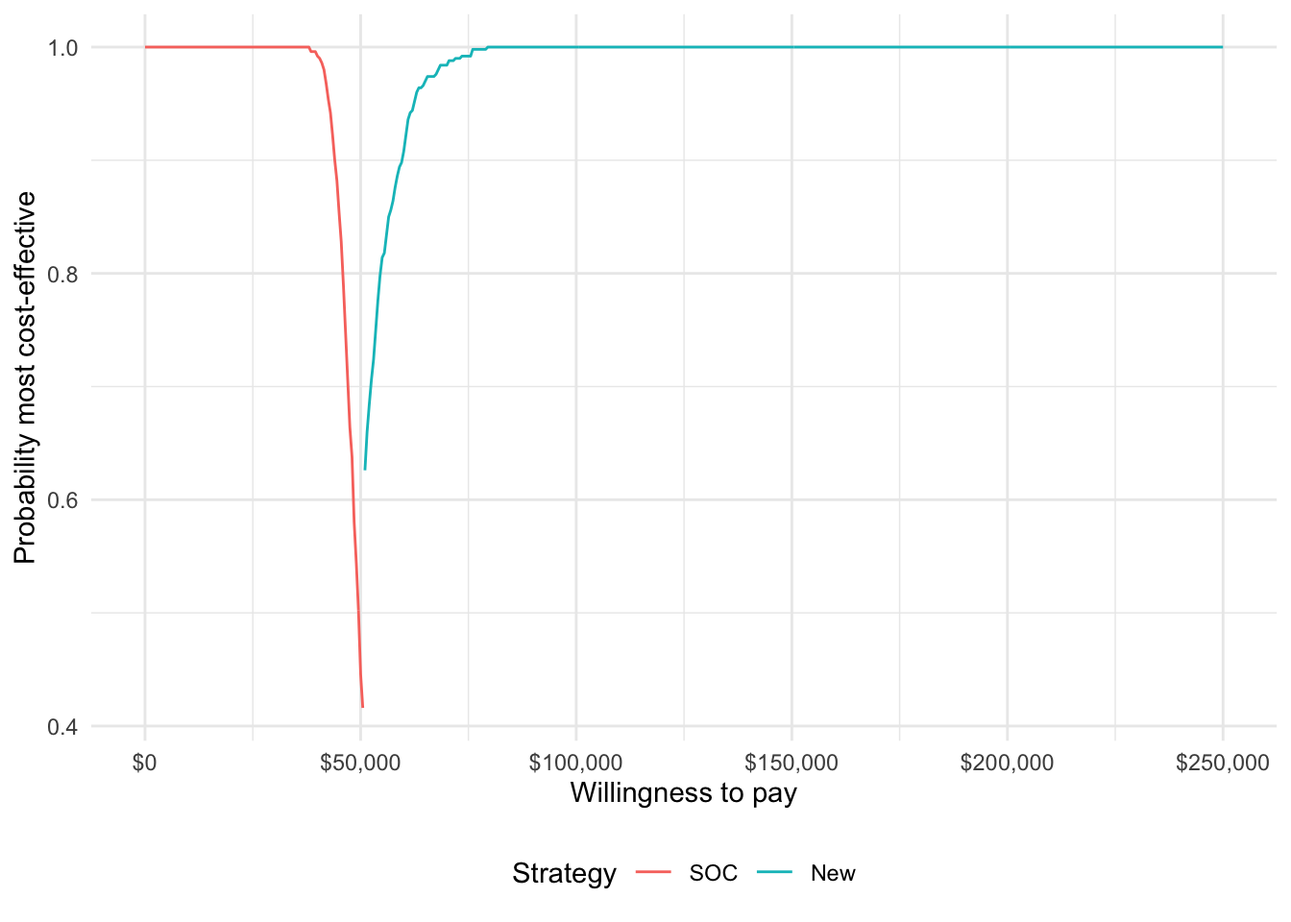
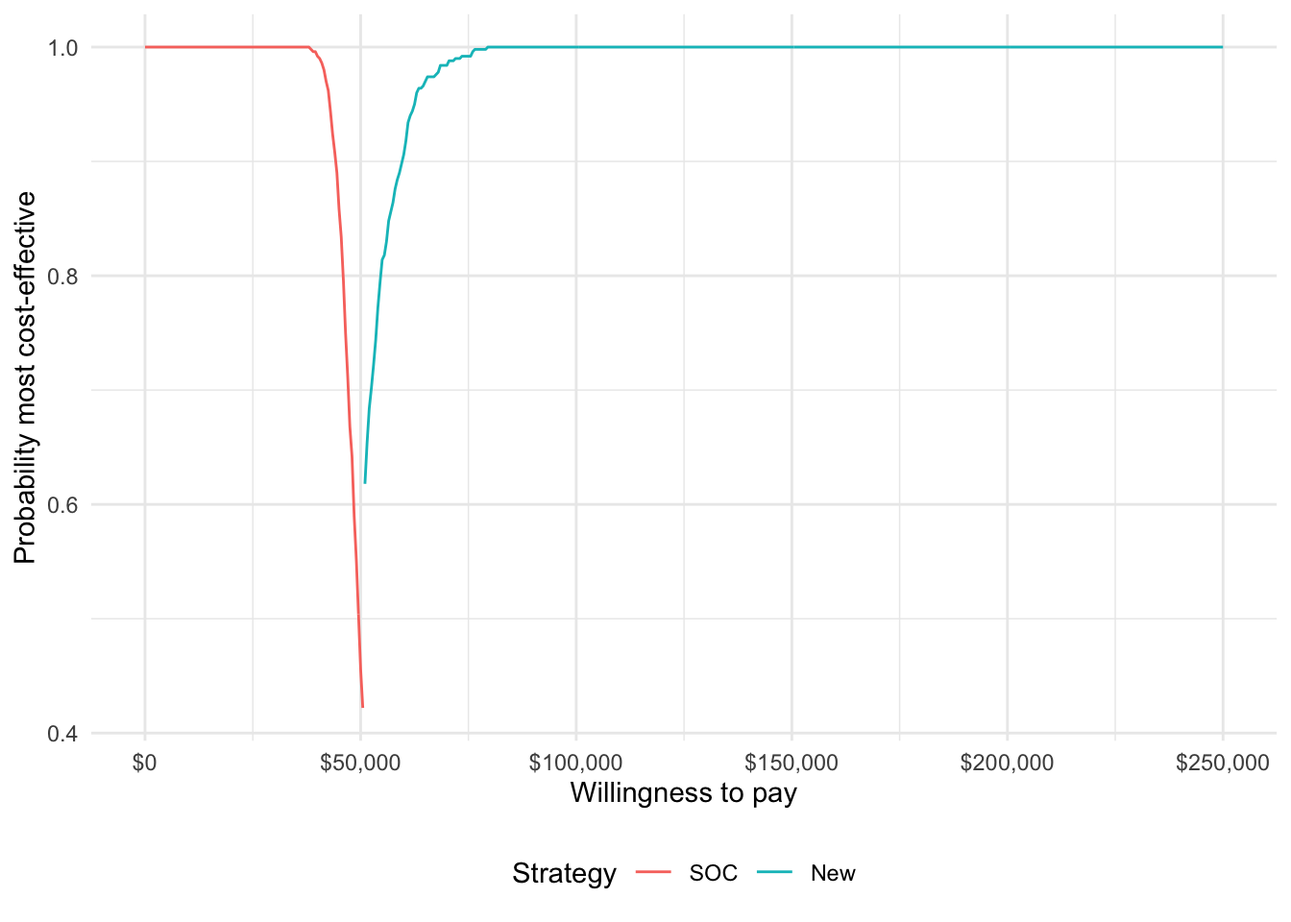
Replace icea() and icea_pw() with cea() and cea_pw() given that icea() and icea_pw() are now deprecated in the development version of hesim

diff --git a/docs/articles/06-cea.html b/docs/articles/06-cea.html
@@ -91,7 +91,7 @@
     <div class="page-header toc-ignore">
       <h1 data-toc-skip>Cost-effectiveness Analysis</h1>
             
-            <h4 class="date">2020-09-13</h4>
+            <h4 class="date">2020-09-19</h4>
       
       <small class="dont-index">Source: <a href="https://github.com/hesim-dev/ispor-short-course/blob/master/vignettes/06-cea.Rmd"><code>vignettes/06-cea.Rmd</code></a></small>
       <div class="hidden name"><code>06-cea.Rmd</code></div>
@@ -104,7 +104,7 @@
 <h1 class="hasAnchor">
 <a href="#overview" class="anchor"></a><span class="header-section-number">1</span> Overview</h1>
 <p>The prior tutorials have focused on constructing economic models to simulate disease progression, costs, and quality-adjusted life-years (QALYs). While incremental cost-effectiveness ratios (ICERs) have been computed and probabilistic sensitivity analysis (PSA) has been employed, we have not yet formalized cost-effectiveness analysis (CEA) or represented decision uncertainty.</p>
-<p>In this analysis we will perform a CEA given the output of model from the <a href="04-mstate.html">“Semi-Markov Multi-state Model”</a> tutorial. We will use the CEA functions from <code>hesim</code> to summarize decision uncertainty and <code>ggplot2</code> for visualization. The CEA will be peformed for a single target population, but you can review the <code>hesim</code> tutorial on <a href="https://hesim-dev.github.io/hesim/articles/icea.html">individualized CEA</a> and the references therein for an example of CEA in the context of multiple subgroups.</p>
+<p>In this analysis we will perform a CEA given the output of model from the <a href="04-mstate.html">“Semi-Markov Multi-state Model”</a> tutorial. We will use the CEA functions from <code>hesim</code> to summarize decision uncertainty and <code>ggplot2</code> for visualization. The CEA will be peformed for a single target population, but you can review the <code>hesim</code> tutorial on <a href="https://hesim-dev.github.io/hesim/articles/cea.html">CEA</a> and the references therein for an example of CEA in the context of multiple subgroups.</p>
 <div class="sourceCode" id="cb1"><html><body><pre class="r"><span class="fu"><a href="https://rdrr.io/r/base/library.html">library</a></span>(<span class="st">"hesim"</span>)
 <span class="fu"><a href="https://rdrr.io/r/base/library.html">library</a></span>(<span class="st">"ggplot2"</span>)
 <span class="fu"><a href="https://ggplot2.tidyverse.org/reference/theme_get.html">theme_set</a></span>(<span class="fu"><a href="https://ggplot2.tidyverse.org/reference/ggtheme.html">theme_minimal</a></span>()) <span class="co"># Set ggplot2 theme</span></pre></body></html></div>
@@ -145,23 +145,23 @@ c_{j} &amp;= [c_{j}^1, c_{j}^2, \dots, c_{j}^m].
 <div id="application" class="section level1">
 <h1 class="hasAnchor">
 <a href="#application" class="anchor"></a><span class="header-section-number">3</span> Application</h1>
-<p>CEA can be performed using the <code><a href="https://rdrr.io/pkg/hesim/man/icea.html">hesim::icea()</a></code> and <code><a href="https://rdrr.io/pkg/hesim/man/icea.html">hesim::icea_pw()</a></code> functions. <code><a href="https://rdrr.io/pkg/hesim/man/icea.html">icea()</a></code> summarizes results by taking into account each treatment strategy in the analysis, while <code>icea_pw</code> summarizes “pairwise” results in which each treatment is compared to a comparator.</p>
+<p>CEA can be performed using the <code><a href="https://rdrr.io/pkg/hesim/man/cea.html">hesim::cea()</a></code> and <code><a href="https://rdrr.io/pkg/hesim/man/cea.html">hesim::cea_pw()</a></code> functions. <code><a href="https://rdrr.io/pkg/hesim/man/cea.html">cea()</a></code> summarizes results by taking into account each treatment strategy in the analysis, while <code>cea_pw</code> summarizes “pairwise” results in which each treatment is compared to a comparator.</p>
 <p>We will use these functions to analyze the distribution of costs and QALYs produced from the simulation of the semi-Markov CTSTM (a <code><a href="https://rdrr.io/pkg/hesim/man/ce.html">hesim::ce</a></code> object).</p>
 <div class="sourceCode" id="cb2"><html><body><pre class="r"><span class="no">ce_sim</span> <span class="kw">&lt;-</span> <span class="fu"><a href="https://rdrr.io/r/base/readRDS.html">readRDS</a></span>(<span class="st">"ce_sim.rds"</span>) <span class="co"># Load cost-effectiveness object</span>
 <span class="fu"><a href="https://rdrr.io/r/utils/head.html">head</a></span>(<span class="no">ce_sim</span>)</pre></body></html></div>
 <pre><code>## $costs
 ##       category   dr sample strategy_id     costs grp_id
 ##    1:     Drug 0.03      1           1  23678.74      1
-##    2:     Drug 0.03      1           2 188210.29      1
+##    2:     Drug 0.03      1           2 188502.54      1
 ##    3:     Drug 0.03      2           1  23224.71      1
-##    4:     Drug 0.03      2           2 184594.47      1
+##    4:     Drug 0.03      2           2 184885.23      1
 ##    5:     Drug 0.03      3           1  23011.36      1
 ##   ---                                                  
-## 2996:    total 0.03    498           2 249897.28      1
+## 2996:    total 0.03    498           2 250188.10      1
 ## 2997:    total 0.03    499           1  63343.39      1
-## 2998:    total 0.03    499           2 238964.38      1
+## 2998:    total 0.03    499           2 239276.32      1
 ## 2999:    total 0.03    500           1  50651.70      1
-## 3000:    total 0.03    500           2 233472.15      1
+## 3000:    total 0.03    500           2 233785.48      1
 ## 
 ## $qalys
 ##         dr sample strategy_id     qalys grp_id
@@ -177,26 +177,26 @@ c_{j} &amp;= [c_{j}^1, c_{j}^2, \dots, c_{j}^m].
 ## 1999: 0.03    500           1  8.063408      1
 ## 2000: 0.03    500           2 12.152292      1</code></pre>
 <div class="sourceCode" id="cb4"><html><body><pre class="r"><span class="no">wtp</span> <span class="kw">&lt;-</span> <span class="fu"><a href="https://rdrr.io/r/base/seq.html">seq</a></span>(<span class="fl">0</span>, <span class="fl">250000</span>, <span class="fl">500</span>) <span class="co"># Willingness to pay per QALY</span>
-<span class="no">icea_pw_out</span> <span class="kw">&lt;-</span> <span class="fu"><a href="https://rdrr.io/pkg/hesim/man/icea.html">icea_pw</a></span>(<span class="no">ce_sim</span>, <span class="kw">comparator</span> <span class="kw">=</span> <span class="fl">1</span>, <span class="co"># Comparator is SOC (ID = 1)</span>
-                       <span class="kw">dr_qalys</span> <span class="kw">=</span> <span class="fl">0.03</span>, <span class="kw">dr_costs</span> <span class="kw">=</span> <span class="fl">0.03</span>,
-                       <span class="no">wtp</span>)
-<span class="no">icea_out</span> <span class="kw">&lt;-</span> <span class="fu"><a href="https://rdrr.io/pkg/hesim/man/icea.html">icea</a></span>(<span class="no">ce_sim</span>,
-                 <span class="kw">dr_qalys</span> <span class="kw">=</span> <span class="fl">0.03</span>, <span class="kw">dr_costs</span> <span class="kw">=</span> <span class="fl">0.03</span>,
-                 <span class="kw">k</span> <span class="kw">=</span> <span class="no">wtp</span>)</pre></body></html></div>
+<span class="no">cea_pw_out</span> <span class="kw">&lt;-</span> <span class="fu"><a href="https://rdrr.io/pkg/hesim/man/cea.html">cea_pw</a></span>(<span class="no">ce_sim</span>, <span class="kw">comparator</span> <span class="kw">=</span> <span class="fl">1</span>, <span class="co"># Comparator is SOC (ID = 1)</span>
+                     <span class="kw">dr_qalys</span> <span class="kw">=</span> <span class="fl">0.03</span>, <span class="kw">dr_costs</span> <span class="kw">=</span> <span class="fl">0.03</span>,
+                     <span class="no">wtp</span>)
+<span class="no">cea_out</span> <span class="kw">&lt;-</span> <span class="fu"><a href="https://rdrr.io/pkg/hesim/man/cea.html">cea</a></span>(<span class="no">ce_sim</span>,
+               <span class="kw">dr_qalys</span> <span class="kw">=</span> <span class="fl">0.03</span>, <span class="kw">dr_costs</span> <span class="kw">=</span> <span class="fl">0.03</span>,
+               <span class="kw">k</span> <span class="kw">=</span> <span class="no">wtp</span>)</pre></body></html></div>
 <p>Each function returns a number of outputs for summarizing a PSA.</p>
 <div id="cost-effectiveness-plane" class="section level2">
 <h2 class="hasAnchor">
 <a href="#cost-effectiveness-plane" class="anchor"></a><span class="header-section-number">3.1</span> Cost-effectiveness plane</h2>
 <p>The cost-effectiveness plane plots the incremental effectiveness of a treatment strategy (relative to a comparator) against the incremental cost of the treatment strategy. The plot is useful because it demonstrates both the uncertainty and the magnitude of the estimates. Each point on the plot is from a particular random draw from the PSA.</p>
-<p>Data for plotting a cost-effectiveness plane comes from the <code>delta</code> output generated from the <code>icea_pw</code> function, which, for each sampled parameter set and treatment strategy, estimates differences in costs and QALYs relative to the comparator.</p>
-<div class="sourceCode" id="cb5"><html><body><pre class="r"><span class="fu"><a href="https://rdrr.io/r/utils/head.html">head</a></span>(<span class="no">icea_pw_out</span>$<span class="no">delta</span>)</pre></body></html></div>
+<p>Data for plotting a cost-effectiveness plane comes from the <code>delta</code> output generated from the <code>cea_pw</code> function, which, for each sampled parameter set and treatment strategy, estimates differences in costs and QALYs relative to the comparator.</p>
+<div class="sourceCode" id="cb5"><html><body><pre class="r"><span class="fu"><a href="https://rdrr.io/r/utils/head.html">head</a></span>(<span class="no">cea_pw_out</span>$<span class="no">delta</span>)</pre></body></html></div>
 <pre><code>##    sample strategy_id grp_id       ie       ic
-## 1:      1           2      1 3.900703 173459.8
-## 2:      2           2      1 3.700907 279860.3
-## 3:      3           2      1 4.140923 207452.3
-## 4:      4           2      1 3.765042 202056.4
-## 5:      5           2      1 4.003303 187869.4
-## 6:      6           2      1 3.247835 164619.4</code></pre>
+## 1:      1           2      1 3.900703 173752.1
+## 2:      2           2      1 3.700907 280151.1
+## 3:      3           2      1 4.140923 207748.0
+## 4:      4           2      1 3.765042 202362.6
+## 5:      5           2      1 4.003303 188159.4
+## 6:      6           2      1 3.247835 164909.4</code></pre>
 <p>To make nicer plots, we can write a simple helper function to (i) create labels for the treatment strategies and (ii) format dollar values (which you might also use the <code>scales</code> package for).</p>
 <div class="sourceCode" id="cb7"><html><body><pre class="r"><span class="no">strategy_factor</span> <span class="kw">&lt;-</span> <span class="kw">function</span> (<span class="no">x</span>) {
   <span class="fu"><a href="https://rdrr.io/r/base/factor.html">factor</a></span>(<span class="no">x</span>, <span class="kw">levels</span> <span class="kw">=</span> <span class="fl">1</span>:<span class="fl">2</span>, <span class="kw">labels</span> <span class="kw">=</span> <span class="fu"><a href="https://rdrr.io/r/base/c.html">c</a></span>(<span class="st">"SOC"</span>, <span class="st">"New"</span>))
@@ -206,9 +206,9 @@ c_{j} &amp;= [c_{j}^1, c_{j}^2, \dots, c_{j}^m].
   <span class="fu"><a href="https://rdrr.io/r/base/paste.html">paste0</a></span>(<span class="st">"$"</span>, <span class="fu"><a href="https://rdrr.io/r/base/formatc.html">formatC</a></span>(<span class="no">x</span>, <span class="kw">format</span> <span class="kw">=</span> <span class="st">"d"</span>, <span class="kw">big.mark</span> <span class="kw">=</span> <span class="st">","</span>))
 }</pre></body></html></div>
 <p>The dotted line in the plot is the WTP line, with slope equal to the desire value of <span class="math inline">\(k\)</span> (in this case $50,000). For a chosen <span class="math inline">\(k\)</span>, points below the line are cost-effective while those above it are not.</p>
-<div class="sourceCode" id="cb8"><html><body><pre class="r"><span class="no">ylim</span> <span class="kw">&lt;-</span> <span class="fu"><a href="https://rdrr.io/r/base/Extremes.html">max</a></span>(<span class="no">icea_pw_out</span>$<span class="no">delta</span>[, <span class="no">ic</span>]) * <span class="fl">1.1</span>
-<span class="no">xlim</span> <span class="kw">&lt;-</span> <span class="fu"><a href="https://rdrr.io/r/base/Round.html">ceiling</a></span>(<span class="fu"><a href="https://rdrr.io/r/base/Extremes.html">max</a></span>(<span class="no">icea_pw_out</span>$<span class="no">delta</span>[, <span class="no">ie</span>]) * <span class="fl">1.1</span>)
-<span class="fu"><a href="https://ggplot2.tidyverse.org/reference/ggplot.html">ggplot</a></span>(<span class="no">icea_pw_out</span>$<span class="no">delta</span>,
+<div class="sourceCode" id="cb8"><html><body><pre class="r"><span class="no">ylim</span> <span class="kw">&lt;-</span> <span class="fu"><a href="https://rdrr.io/r/base/Extremes.html">max</a></span>(<span class="no">cea_pw_out</span>$<span class="no">delta</span>[, <span class="no">ic</span>]) * <span class="fl">1.1</span>
+<span class="no">xlim</span> <span class="kw">&lt;-</span> <span class="fu"><a href="https://rdrr.io/r/base/Round.html">ceiling</a></span>(<span class="fu"><a href="https://rdrr.io/r/base/Extremes.html">max</a></span>(<span class="no">cea_pw_out</span>$<span class="no">delta</span>[, <span class="no">ie</span>]) * <span class="fl">1.1</span>)
+<span class="fu"><a href="https://ggplot2.tidyverse.org/reference/ggplot.html">ggplot</a></span>(<span class="no">cea_pw_out</span>$<span class="no">delta</span>,
        <span class="fu"><a href="https://ggplot2.tidyverse.org/reference/aes.html">aes</a></span>(<span class="kw">x</span> <span class="kw">=</span> <span class="no">ie</span>, <span class="kw">y</span> <span class="kw">=</span> <span class="no">ic</span>, <span class="kw">col</span> <span class="kw">=</span> <span class="fu">strategy_factor</span>(<span class="no">strategy_id</span>))) +
   <span class="fu"><a href="https://ggplot2.tidyverse.org/reference/geom_jitter.html">geom_jitter</a></span>(<span class="kw">size</span> <span class="kw">=</span> <span class="fl">.5</span>)  +
   <span class="fu"><a href="https://ggplot2.tidyverse.org/reference/labs.html">xlab</a></span>(<span class="st">"Incremental QALYs"</span>) +
@@ -230,7 +230,7 @@ c_{j} &amp;= [c_{j}^1, c_{j}^2, \dots, c_{j}^m].
 <h3 class="hasAnchor">
 <a href="#simultanous-comparison" class="anchor"></a><span class="header-section-number">3.2.1</span> Simultanous comparison</h3>
 <p>A useful summary measure for quantifying uncertainty is the probability that each treatment strategy is the most cost effective, which is estimated from simulation output as the proportion of simulation draws that each strategy has the highest NMB.</p>
-<div class="sourceCode" id="cb9"><html><body><pre class="r"><span class="fu"><a href="https://ggplot2.tidyverse.org/reference/ggplot.html">ggplot</a></span>(<span class="no">icea_out</span>$<span class="no">mce</span>,
+<div class="sourceCode" id="cb9"><html><body><pre class="r"><span class="fu"><a href="https://ggplot2.tidyverse.org/reference/ggplot.html">ggplot</a></span>(<span class="no">cea_out</span>$<span class="no">mce</span>,
        <span class="fu"><a href="https://ggplot2.tidyverse.org/reference/aes.html">aes</a></span>(<span class="kw">x</span> <span class="kw">=</span> <span class="no">k</span>, <span class="kw">y</span> <span class="kw">=</span> <span class="no">prob</span>, <span class="kw">col</span> <span class="kw">=</span> <span class="fu">strategy_factor</span>(<span class="no">strategy_id</span>))) +
   <span class="fu"><a href="https://ggplot2.tidyverse.org/reference/geom_path.html">geom_line</a></span>() +
   <span class="fu"><a href="https://ggplot2.tidyverse.org/reference/labs.html">xlab</a></span>(<span class="st">"Willingness to pay"</span>) +
@@ -246,7 +246,7 @@ c_{j} &amp;= [c_{j}^1, c_{j}^2, \dots, c_{j}^m].
 <h3 class="hasAnchor">
 <a href="#pairwise-comparison" class="anchor"></a><span class="header-section-number">3.2.2</span> Pairwise comparison</h3>
 <p>The difference between this plot and the one above is that it compares each strategy to a single comparator rather than considering all strategies simultaneously. Since there are only two treatment strategies the distinction is not meaningful, but it can be important when there are 3 or more treatment strategies.</p>
-<div class="sourceCode" id="cb10"><html><body><pre class="r"><span class="fu"><a href="https://ggplot2.tidyverse.org/reference/ggplot.html">ggplot</a></span>(<span class="no">icea_pw_out</span>$<span class="no">ceac</span>,
+<div class="sourceCode" id="cb10"><html><body><pre class="r"><span class="fu"><a href="https://ggplot2.tidyverse.org/reference/ggplot.html">ggplot</a></span>(<span class="no">cea_pw_out</span>$<span class="no">ceac</span>,
        <span class="fu"><a href="https://ggplot2.tidyverse.org/reference/aes.html">aes</a></span>(<span class="kw">x</span> <span class="kw">=</span> <span class="no">k</span>, <span class="kw">y</span> <span class="kw">=</span> <span class="no">prob</span>, <span class="kw">col</span> <span class="kw">=</span> <span class="fu">strategy_factor</span>(<span class="no">strategy_id</span>))) +
   <span class="fu"><a href="https://ggplot2.tidyverse.org/reference/geom_path.html">geom_line</a></span>()  +
   <span class="fu"><a href="https://ggplot2.tidyverse.org/reference/labs.html">xlab</a></span>(<span class="st">"Willingness to pay"</span>) +
@@ -263,7 +263,7 @@ c_{j} &amp;= [c_{j}^1, c_{j}^2, \dots, c_{j}^m].
 <a href="#cost-effectiveness-acceptability-frontier-ceaf" class="anchor"></a><span class="header-section-number">3.3</span> Cost-effectiveness acceptability frontier (CEAF)</h2>
 <p>One drawback of the CEAC is that the probability of being cost-effective cannot be used to determine the optimal treatment option. Instead, if a decision-makers objective is to maximize health gain, then decisions should be based on the expected NMB. The cost-effectiveness acceptability frontier (CEAF), which plots the probability that the optimal treatment strategy (i.e., the strategy with the highest expected NMB) is cost-effective, is appropriate in this context.</p>
 <p>A CEAF curve can be easily created by using the <code>best</code> column to subset to the treatment strategy with the highest expected NMB for each WTP value.</p>
-<div class="sourceCode" id="cb11"><html><body><pre class="r"><span class="fu"><a href="https://ggplot2.tidyverse.org/reference/ggplot.html">ggplot</a></span>(<span class="no">icea_out</span>$<span class="no">mce</span>[<span class="no">best</span> <span class="kw">==</span> <span class="fl">1</span>],
+<div class="sourceCode" id="cb11"><html><body><pre class="r"><span class="fu"><a href="https://ggplot2.tidyverse.org/reference/ggplot.html">ggplot</a></span>(<span class="no">cea_out</span>$<span class="no">mce</span>[<span class="no">best</span> <span class="kw">==</span> <span class="fl">1</span>],
        <span class="fu"><a href="https://ggplot2.tidyverse.org/reference/aes.html">aes</a></span>(<span class="kw">x</span> <span class="kw">=</span> <span class="no">k</span>, <span class="kw">y</span> <span class="kw">=</span> <span class="no">prob</span>, <span class="kw">col</span> <span class="kw">=</span> <span class="fu">strategy_factor</span>(<span class="no">strategy_id</span>))) +
   <span class="fu"><a href="https://ggplot2.tidyverse.org/reference/geom_path.html">geom_line</a></span>() +
   <span class="fu"><a href="https://ggplot2.tidyverse.org/reference/labs.html">xlab</a></span>(<span class="st">"Willingness to pay"</span>) +
@@ -283,8 +283,8 @@ c_{j} &amp;= [c_{j}^1, c_{j}^2, \dots, c_{j}^m].
 EVPI_g &amp;= E_\theta \left[max_j NMB_g(j, \theta)\right] - max_j E_\theta \left [ NMB_g(j, \theta)\right]. \\
 \end{aligned}
 \]</span></p>
-<p>The <code><a href="https://rdrr.io/pkg/hesim/man/icea.html">icea()</a></code> function performs the EVPI calculation across all simulation draws from the PSA and for a number of WTP values <span class="math inline">\(k\)</span>. A plot by group of the the EVPI for different values of <span class="math inline">\(k\)</span> is shown below. The kink in the plot represents the value of <span class="math inline">\(k\)</span> where the optimal strategy changes.</p>
-<div class="sourceCode" id="cb12"><html><body><pre class="r"><span class="fu"><a href="https://ggplot2.tidyverse.org/reference/ggplot.html">ggplot</a></span>(<span class="no">icea_out</span>$<span class="no">evpi</span>, <span class="fu"><a href="https://ggplot2.tidyverse.org/reference/aes.html">aes</a></span>(<span class="kw">x</span> <span class="kw">=</span> <span class="no">k</span>, <span class="kw">y</span> <span class="kw">=</span> <span class="no">evpi</span>)) +
+<p>The <code><a href="https://rdrr.io/pkg/hesim/man/cea.html">cea()</a></code> function performs the EVPI calculation across all simulation draws from the PSA and for a number of WTP values <span class="math inline">\(k\)</span>. A plot by group of the the EVPI for different values of <span class="math inline">\(k\)</span> is shown below. The kink in the plot represents the value of <span class="math inline">\(k\)</span> where the optimal strategy changes.</p>
+<div class="sourceCode" id="cb12"><html><body><pre class="r"><span class="fu"><a href="https://ggplot2.tidyverse.org/reference/ggplot.html">ggplot</a></span>(<span class="no">cea_out</span>$<span class="no">evpi</span>, <span class="fu"><a href="https://ggplot2.tidyverse.org/reference/aes.html">aes</a></span>(<span class="kw">x</span> <span class="kw">=</span> <span class="no">k</span>, <span class="kw">y</span> <span class="kw">=</span> <span class="no">evpi</span>)) +
   <span class="fu"><a href="https://ggplot2.tidyverse.org/reference/geom_path.html">geom_line</a></span>()  +
   <span class="fu"><a href="https://ggplot2.tidyverse.org/reference/labs.html">xlab</a></span>(<span class="st">"Willingness to pay"</span>) +
   <span class="fu"><a href="https://ggplot2.tidyverse.org/reference/labs.html">ylab</a></span>(<span class="st">"Expected value of perfect information"</span>) +

diff --git a/docs/articles/03-markov-cohort-hesim.html b/docs/articles/03-markov-cohort-hesim.html
@@ -91,7 +91,7 @@
     <div class="page-header toc-ignore">
       <h1 data-toc-skip>Markov Cohort Model wth hesim</h1>
             
-            <h4 class="date">2020-09-15</h4>
+            <h4 class="date">2020-09-19</h4>
       
       <small class="dont-index">Source: <a href="https://github.com/hesim-dev/ispor-short-course/blob/master/vignettes/03-markov-cohort-hesim.Rmd"><code>vignettes/03-markov-cohort-hesim.Rmd</code></a></small>
       <div class="hidden name"><code>03-markov-cohort-hesim.Rmd</code></div>
@@ -254,12 +254,12 @@
 <div class="sourceCode" id="cb12"><html><body><pre class="r"><span class="no">econmod</span>$<span class="fu"><a href="https://rdrr.io/pkg/hesim/man/sim_ev.html">sim_qalys</a></span>(<span class="kw">dr</span> <span class="kw">=</span> <span class="fl">0.03</span>, <span class="kw">integrate_method</span> <span class="kw">=</span> <span class="st">"riemann_left"</span>)
 <span class="fu"><a href="https://rdrr.io/r/utils/head.html">head</a></span>(<span class="no">econmod</span>$<span class="no">qalys_</span>)</pre></body></html></div>
 <pre><code>##    sample strategy_id patient_id grp_id state_id   dr category      qalys
-## 1:      1           1          1      1        1 0.03    qalys 15.7990781
-## 2:      1           1          1      1        2 0.03    qalys  0.2964126
-## 3:      1           1          1      1        3 0.03    qalys  3.2247418
-## 4:      1           2          1      1        1 0.03    qalys 19.3874795
-## 5:      1           2          1      1        2 0.03    qalys  0.2843835
-## 6:      1           2          1      1        3 0.03    qalys  2.4777584</code></pre>
+## 1:      1           1          1      1        1 0.03    qalys 15.8180662
+## 2:      1           1          1      1        2 0.03    qalys  0.4070734
+## 3:      1           1          1      1        3 0.03    qalys  2.8572384
+## 4:      1           2          1      1        1 0.03    qalys 19.3003444
+## 5:      1           2          1      1        2 0.03    qalys  0.3893757
+## 6:      1           2          1      1        3 0.03    qalys  2.2565572</code></pre>
 <div class="sourceCode" id="cb14"><html><body><pre class="r"><span class="no">econmod</span>$<span class="fu"><a href="https://rdrr.io/pkg/hesim/man/sim_ev.html">sim_costs</a></span>(<span class="kw">dr</span> <span class="kw">=</span> <span class="fl">0.03</span>, <span class="kw">integrate_method</span> <span class="kw">=</span> <span class="st">"riemann_left"</span>)</pre></body></html></div>
 </div>
 </div>
@@ -267,18 +267,18 @@
 <div id="cost-effectiveness-analysis" class="section level1">
 <h1 class="hasAnchor">
 <a href="#cost-effectiveness-analysis" class="anchor"></a><span class="header-section-number">5</span> Cost-effectiveness analysis</h1>
-<p>Cost-effectiveness analyses (CEAs) can be performed directly from the simulation output with <code>hesim</code>. Other R packages such as <a href="https://sites.google.com/a/statistica.it/gianluca/bcea">BCEA</a> could also be considered. Here, we will consider a pairwise comparison between the new treatment and SOC with the <code><a href="https://rdrr.io/pkg/hesim/man/icea.html">hesim::icea_pw()</a></code> function.</p>
+<p>Cost-effectiveness analyses (CEAs) can be performed directly from the simulation output with <code>hesim</code>. Other R packages such as <a href="https://sites.google.com/a/statistica.it/gianluca/bcea">BCEA</a> could also be considered. Here, we will consider a pairwise comparison between the new treatment and SOC with the <code><a href="https://rdrr.io/pkg/hesim/man/cea.html">hesim::cea_pw()</a></code> function.</p>
 <div class="sourceCode" id="cb15"><html><body><pre class="r"><span class="no">ce_sim</span> <span class="kw">&lt;-</span> <span class="no">econmod</span>$<span class="fu">summarize</span>()
-<span class="no">icea_pw_out</span> <span class="kw">&lt;-</span> <span class="fu"><a href="https://rdrr.io/pkg/hesim/man/icea.html">icea_pw</a></span>(<span class="no">ce_sim</span>, <span class="kw">comparator</span> <span class="kw">=</span> <span class="fl">1</span>,
-                       <span class="kw">dr_qalys</span> <span class="kw">=</span> <span class="fl">0.03</span>, <span class="kw">dr_costs</span> <span class="kw">=</span> <span class="fl">0.03</span>,
-                       <span class="kw">k</span> <span class="kw">=</span> <span class="fu"><a href="https://rdrr.io/r/base/seq.html">seq</a></span>(<span class="fl">0</span>, <span class="fl">25000</span>, <span class="fl">500</span>))</pre></body></html></div>
-<p>Although <code><a href="https://rdrr.io/pkg/hesim/man/icea.html">icea_pw()</a></code> allows users to summarize output from a PSA we will just create an ICER table using means for now. A complete analysis is provided in the <a href="06-cea.html">CEA tutorial</a>.</p>
-<div class="sourceCode" id="cb16"><html><body><pre class="r"><span class="fu"><a href="https://rdrr.io/pkg/hesim/man/icer_tbl.html">icer_tbl</a></span>(<span class="no">icea_pw_out</span>, <span class="kw">colnames</span> <span class="kw">=</span> <span class="no">strategies</span>$<span class="no">strategy_name</span>)</pre></body></html></div>
+<span class="no">cea_pw_out</span> <span class="kw">&lt;-</span> <span class="fu"><a href="https://rdrr.io/pkg/hesim/man/cea.html">cea_pw</a></span>(<span class="no">ce_sim</span>, <span class="kw">comparator</span> <span class="kw">=</span> <span class="fl">1</span>,
+                     <span class="kw">dr_qalys</span> <span class="kw">=</span> <span class="fl">0.03</span>, <span class="kw">dr_costs</span> <span class="kw">=</span> <span class="fl">0.03</span>,
+                     <span class="kw">k</span> <span class="kw">=</span> <span class="fu"><a href="https://rdrr.io/r/base/seq.html">seq</a></span>(<span class="fl">0</span>, <span class="fl">25000</span>, <span class="fl">500</span>))</pre></body></html></div>
+<p>Although <code><a href="https://rdrr.io/pkg/hesim/man/cea.html">cea_pw()</a></code> allows users to summarize output from a PSA we will just create an ICER table using means for now. A complete analysis is provided in the <a href="06-cea.html">CEA tutorial</a>.</p>
+<div class="sourceCode" id="cb16"><html><body><pre class="r"><span class="fu"><a href="https://rdrr.io/pkg/hesim/man/icer_tbl.html">icer_tbl</a></span>(<span class="no">cea_pw_out</span>, <span class="kw">colnames</span> <span class="kw">=</span> <span class="no">strategies</span>$<span class="no">strategy_name</span>)</pre></body></html></div>
 <pre><code>##                   SOC New                           
-## Incremental QALYs "-" "2.09 (0.97, 3.20)"           
-## Incremental costs "-" "266,936 (212,583, 297,223)"  
-## Incremental NMB   "-" "-162,189 (-223,478, -91,514)"
-## ICER              "-" "127,419"                     
+## Incremental QALYs "-" "2.10 (0.99, 3.24)"           
+## Incremental costs "-" "266,741 (212,816, 295,703)"  
+## Incremental NMB   "-" "-161,900 (-222,852, -86,071)"
+## ICER              "-" "127,212"                     
 ## Conclusion        "-" "Not cost-effective"</code></pre>
 </div>
   </div>

diff --git a/docs/articles/05-psm.html b/docs/articles/05-psm.html
@@ -91,7 +91,7 @@
     <div class="page-header toc-ignore">
       <h1 data-toc-skip>Partitioned Survival Model</h1>
             
-            <h4 class="date">2020-09-13</h4>
+            <h4 class="date">2020-09-19</h4>
       
       <small class="dont-index">Source: <a href="https://github.com/hesim-dev/ispor-short-course/blob/master/vignettes/05-psm.Rmd"><code>vignettes/05-psm.Rmd</code></a></small>
       <div class="hidden name"><code>05-psm.Rmd</code></div>
@@ -343,8 +343,8 @@ C &amp; p_1 - p_2 &amp; p_2\\
 <a href="#cost-effectiveness-analysis" class="anchor"></a><span class="header-section-number">6</span> Cost-effectiveness analysis</h1>
 <p>Since the cost and QALY output is the same regardless of the model type, the cost-effectiveness analysis (CEA) proceeds in the same way as when using the Markov cohort and multi-state modeling approaches.</p>
 <div class="sourceCode" id="cb24"><html><body><pre class="r"><span class="no">ce_sim</span> <span class="kw">&lt;-</span> <span class="no">econmod</span>$<span class="fu">summarize</span>()
-<span class="no">icea_pw_out</span> <span class="kw">&lt;-</span> <span class="fu"><a href="https://rdrr.io/pkg/hesim/man/icea.html">icea_pw</a></span>(<span class="no">ce_sim</span>, <span class="kw">comparator</span> <span class="kw">=</span> <span class="fl">1</span>, <span class="kw">dr_qalys</span> <span class="kw">=</span> <span class="fl">.03</span>, <span class="kw">dr_costs</span> <span class="kw">=</span> <span class="fl">.03</span>)
-<span class="fu"><a href="https://rdrr.io/pkg/hesim/man/icer_tbl.html">icer_tbl</a></span>(<span class="no">icea_pw_out</span>, <span class="kw">colnames</span> <span class="kw">=</span> <span class="no">strategies</span>$<span class="no">strategy_name</span>)</pre></body></html></div>
+<span class="no">cea_pw_out</span> <span class="kw">&lt;-</span> <span class="fu"><a href="https://rdrr.io/pkg/hesim/man/cea.html">cea_pw</a></span>(<span class="no">ce_sim</span>, <span class="kw">comparator</span> <span class="kw">=</span> <span class="fl">1</span>, <span class="kw">dr_qalys</span> <span class="kw">=</span> <span class="fl">.03</span>, <span class="kw">dr_costs</span> <span class="kw">=</span> <span class="fl">.03</span>)
+<span class="fu"><a href="https://rdrr.io/pkg/hesim/man/icer_tbl.html">icer_tbl</a></span>(<span class="no">cea_pw_out</span>, <span class="kw">colnames</span> <span class="kw">=</span> <span class="no">strategies</span>$<span class="no">strategy_name</span>)</pre></body></html></div>
 <pre><code>##                   SOC New                         
 ## Incremental QALYs "-" "3.60 (3.07, 4.09)"         
 ## Incremental costs "-" "201,896 (178,583, 257,932)"
